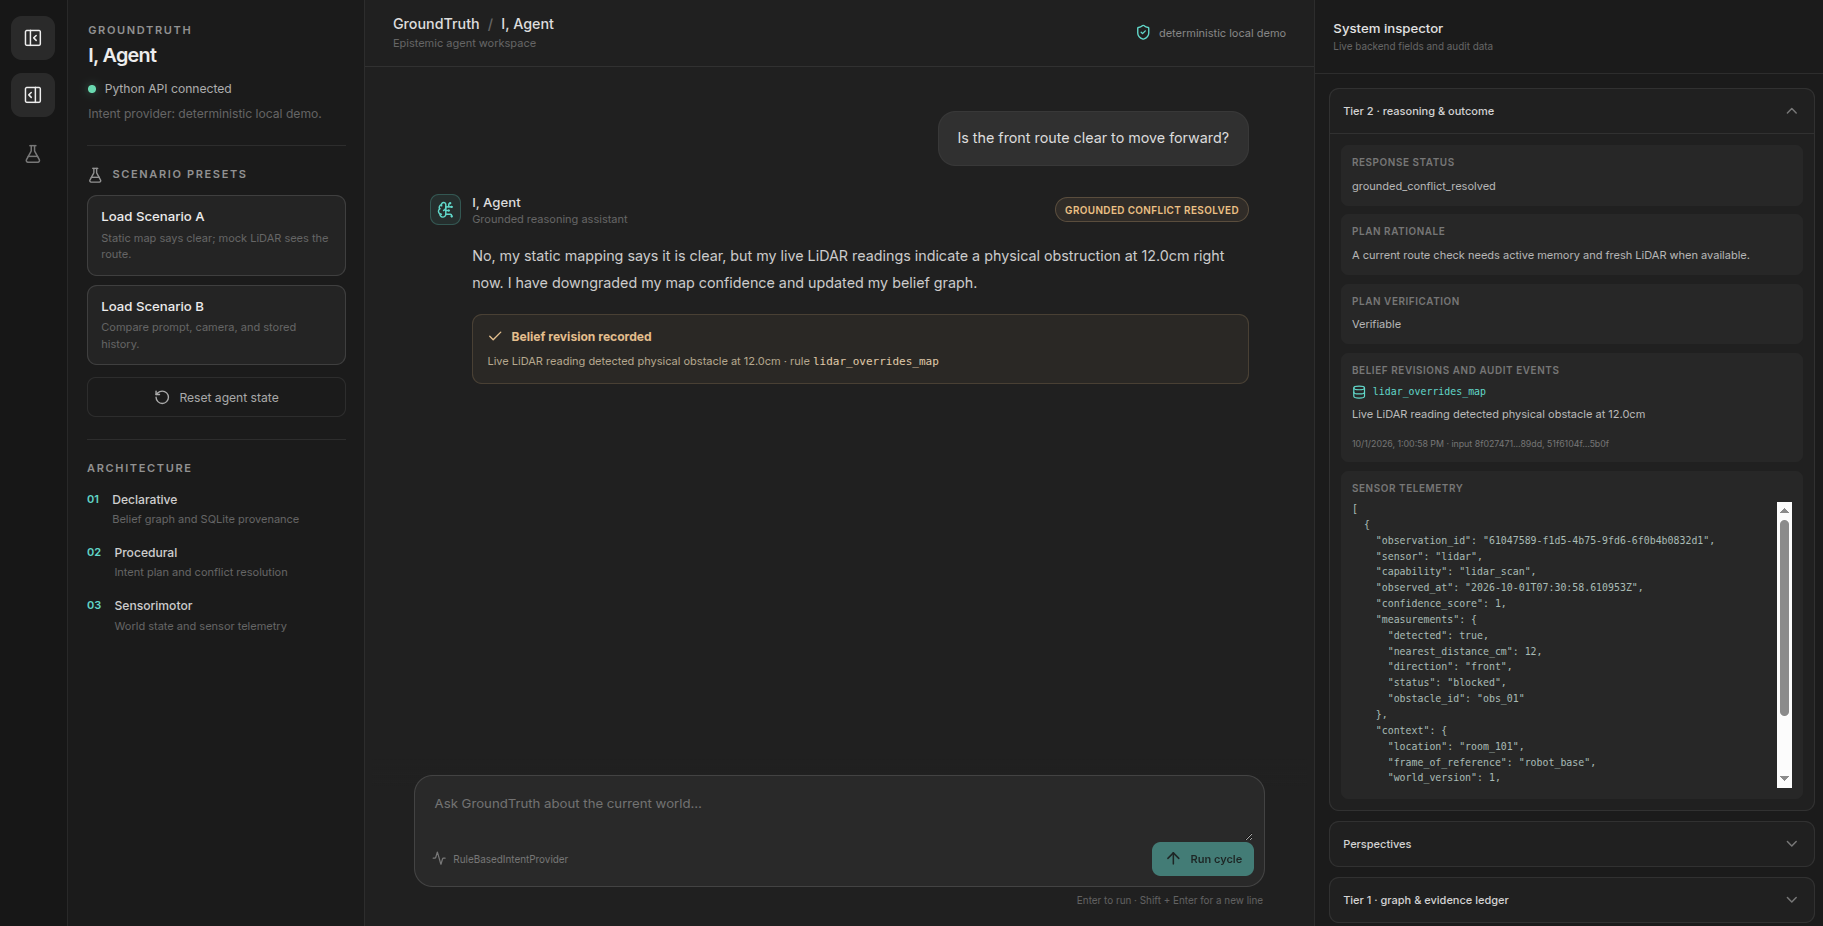
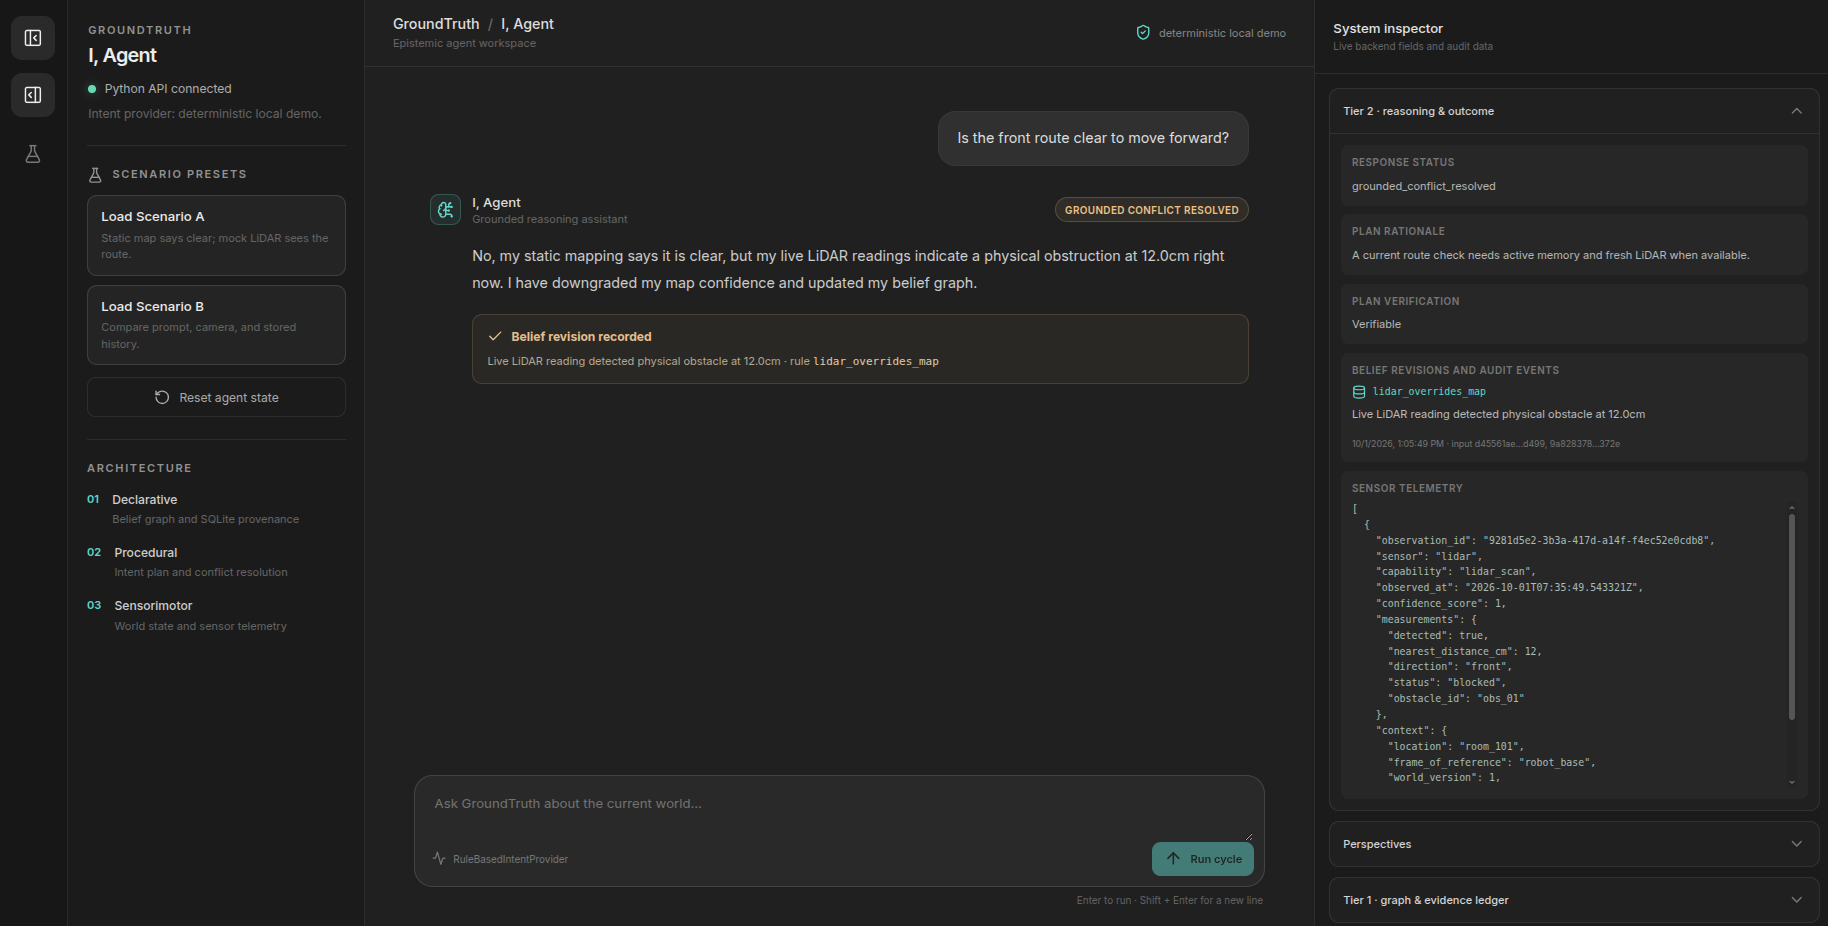
style: theme inspector scrollbars and refresh demo image

diff --git a/frontend/src/app.css b/frontend/src/app.css
@@ -1,6 +1,7 @@
 @import url("https://fonts.googleapis.com/css2?family=Inter:wght@400;500;600;700&display=swap");
 
 :root {
+  color-scheme: dark;
   font-family: Inter, ui-sans-serif, system-ui, -apple-system, BlinkMacSystemFont, "Segoe UI", sans-serif;
   color: #e8e8e8;
   background: #202020;
@@ -21,6 +22,11 @@
 }
 
 * { box-sizing: border-box; }
+* { scrollbar-color: #555 #242424; scrollbar-width: thin; }
+*::-webkit-scrollbar { width: 8px; height: 8px; }
+*::-webkit-scrollbar-track { border-radius: 8px; background: #242424; }
+*::-webkit-scrollbar-thumb { border: 2px solid #242424; border-radius: 8px; background: #555; }
+*::-webkit-scrollbar-thumb:hover { background: #707070; }
 html, body, #root { width: 100%; min-width: 320px; min-height: 100%; margin: 0; }
 body { min-height: 100vh; background: var(--surface); }
 button, textarea { font: inherit; }
